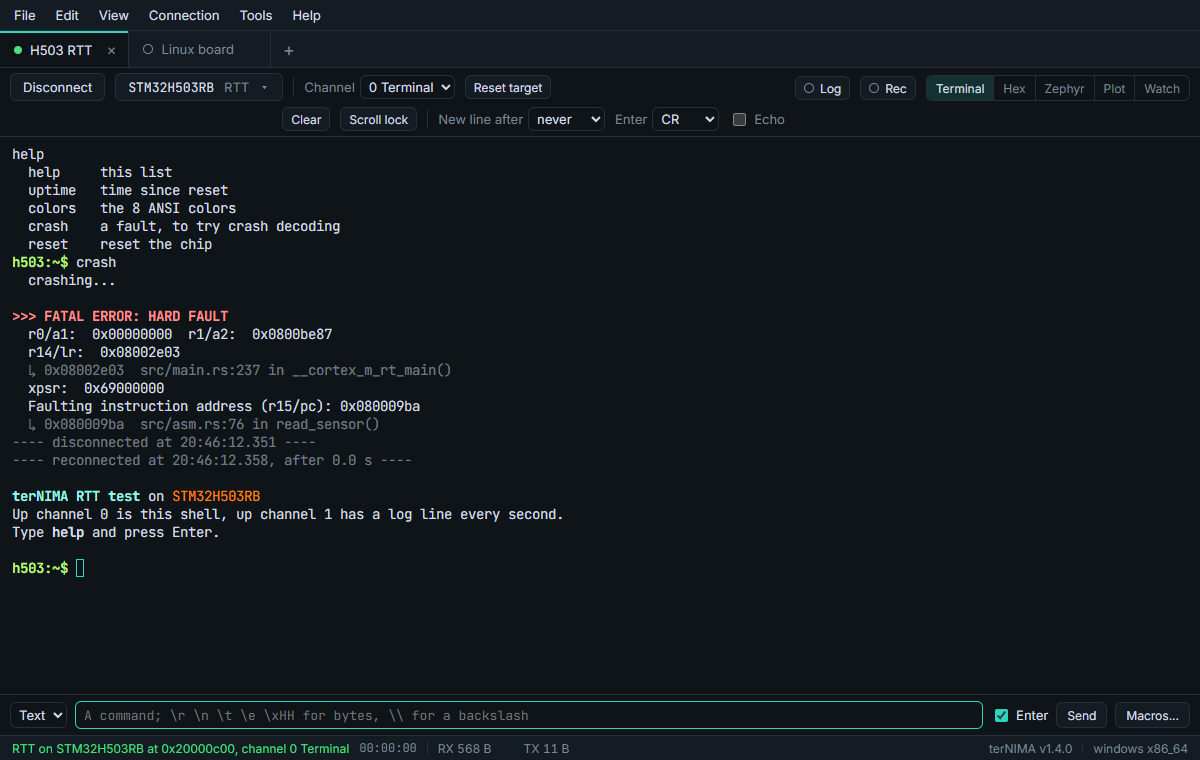
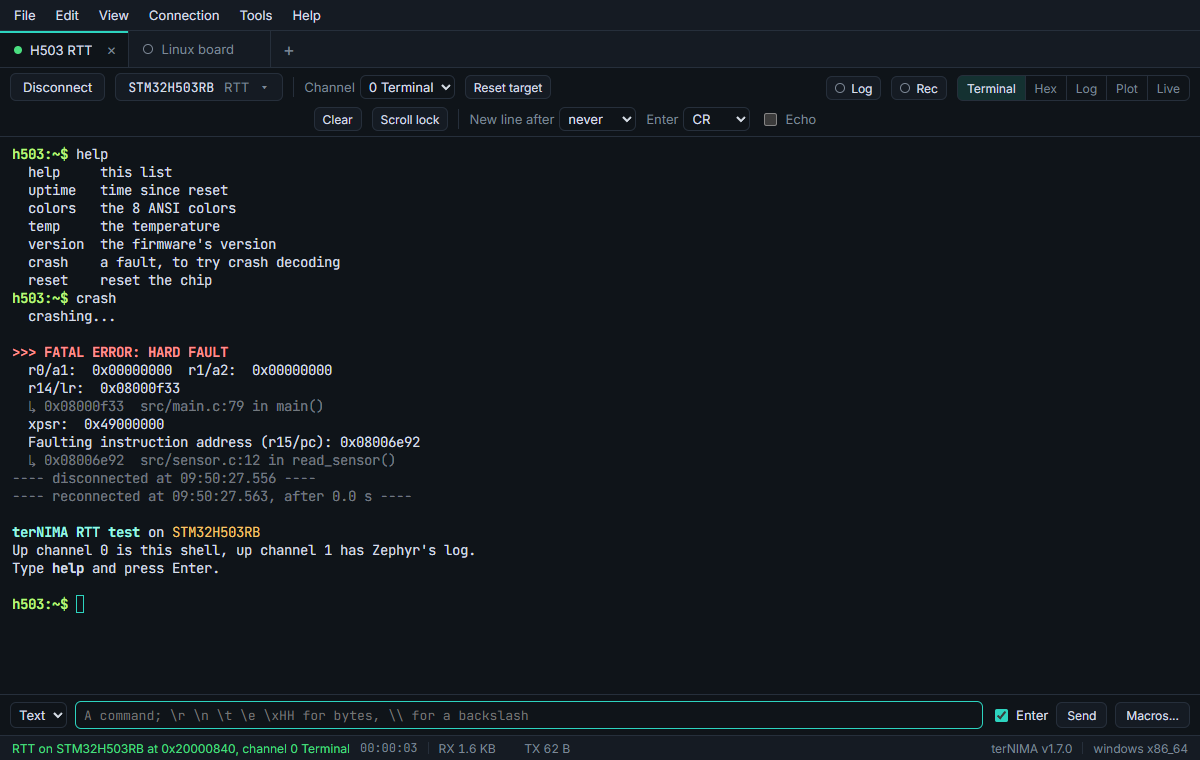
terNIMA's pictures taken again on 1.7.0, with the Live and Log views
The 25 older pictures showed the views as Watch and Zephyr, and some as
Lines. Taken again on terNIMA 1.7.0 with a demo firmware on the
NUCLEO-H503RB: an RTT shell, sensors to watch, Zephyr's log on RTT channel
1, a crash to decode and a Modbus RTU slave on its virtual COM port; the
plots from two small feeders, and htop over SSH. The descriptions follow
what the new pictures show.

diff --git a/ternima/index.html b/ternima/index.html
@@ -89,16 +89,16 @@
       <figure class="shot" id="shots" aria-roledescription="carousel" aria-label="terNIMA, feature by feature">
         <div class="slides">
           <img class="slide on" src="/assets/ternima-rtos.png" width="1200" height="760" loading="lazy" data-caption="RTOS tasks, and every task switch and interrupt on a timeline" alt="terNIMA&#x27;s Live view on an STM32H503RB running Zephyr: a timeline with a lane for each thread, the SysTick and TIM7 interrupts under them and two variables over the same time, 24.6 ms across, and under it the threads, each with its state, priority, stack and share of the CPU">
-          <img class="slide" src="/assets/ternima-logs.png" width="1200" height="760" loading="lazy" data-caption="Zephyr logs, by level and module, with highlights" alt="terNIMA's Lines view: Zephyr log lines, each with its time, level and module, the warnings and errors highlighted, and a count of each level above them">
+          <img class="slide" src="/assets/ternima-logs.png" width="1200" height="760" loading="lazy" data-caption="Zephyr logs, by level and module, with highlights" alt="terNIMA's Log view: Zephyr log lines from the board over RTT, each with its time, level and module, the warnings and errors highlighted, and a count of each level above them">
           <img class="slide" src="/assets/ternima-crash.png" width="1200" height="760" loading="lazy" data-caption="A real HardFault, with the function, file and line under each address" alt="An RTT tab on an STM32H503RB after a HardFault: under the lines with the LR and the PC, the function, file and line of each address">
           <img class="slide" src="/assets/ternima-ssh.png" width="1200" height="760" loading="lazy" data-caption="SSH in a real terminal: htop on a Linux machine" alt="An SSH tab with htop running in it, with its colors, its bars and its F key menu">
           <img class="slide" src="/assets/ternima-rtt.png" width="1200" height="760" loading="lazy" data-caption="RTT through an ST-LINK, with no vendor software" alt="An RTT tab on an STM32H503RB through an ST-LINK: the firmware's shell, with help, colors and uptime typed into it">
           <img class="slide" src="/assets/ternima-watch.png" width="1200" height="760" loading="lazy" data-caption="Live variables beside the RTT shell, read as the chip runs" alt="An RTT tab on an STM32H503RB: the firmware's shell at the left, and at the right its variables, a temperature, a sine, a sample count and the uptime, read live through the probe">
           <img class="slide" src="/assets/ternima-sequences.png" width="1200" height="760" loading="lazy" data-caption="Macros, and sequences of them sent again and again" alt="The Macros dialog: three macros, Reboot, Version and Temperature, and a sequence, Soak test, that sends Temperature then Version every 2 seconds until it is stopped, with their buttons under the terminal">
           <img class="slide" src="/assets/ternima-plot.png" width="1200" height="760" loading="lazy" data-caption="A live plot of the numbers in the lines, with stats" alt="The Plot view: temperature, humidity, a sine and RSSI read from text lines and drawn over the last 10 seconds, with the last, min, max, mean and deviation of each">
-          <img class="slide" src="/assets/ternima-axis.png" width="1200" height="760" loading="lazy" data-caption="A series far from the others, on a right axis of its own" alt="The Plot view: humidity and temperature on the left axis, from 20 to 45, and a sine on a right axis of its own, from -1 to 1, over the same 10 seconds; R by a series in the table puts it on the right">
+          <img class="slide" src="/assets/ternima-axis.png" width="1200" height="760" loading="lazy" data-caption="A series far from the others, on a right axis of its own" alt="The Plot view: humidity and temperature on the left axis, from 20 to 60, and a sine on a right axis of its own, from -1 to 1, over the same 10 seconds; R by a series in the table puts it on the right">
           <img class="slide" src="/assets/ternima-fft.png" width="1200" height="760" loading="lazy" data-caption="FFT, with its peak; XY, histogram and a trigger too" alt="The Plot view's FFT: a signal's spectrum in dB, peaks at 50 and 120 Hz, the peak at 50 Hz named below">
-          <img class="slide" src="/assets/ternima-modbus.png" width="1200" height="760" loading="lazy" data-caption="A Modbus RTU master, polling three units" alt="The Modbus view's Tester as a master on COM6: requests to units 1, 2 and 3 with what each got and how long it took, unit 3 with no answer, and the log of every frame below">
+          <img class="slide" src="/assets/ternima-modbus.png" width="1200" height="760" loading="lazy" data-caption="A Modbus RTU master, polling three units" alt="The Modbus view's Tester as a master on COM6, the board's virtual COM port: requests to units 1, 2 and 3 with what each got and how long it took, unit 3 with no answer, and the log of every frame below">
           <img class="slide" src="/assets/ternima-traffic.png" width="1200" height="760" loading="lazy" data-caption="Every Modbus frame, each response under its request" alt="The Modbus view's Traffic: each request with its response under it and the time it took, and the frame picked below with its bytes colored by part and each register's value">
           <img class="slide" src="/assets/ternima-replay.png" width="1200" height="760" loading="lazy" data-caption="A recording played back, with its timing" alt="A recording played back at its own speed, with Pause, Restart, the speed and the position, and its numbers drawn as they come">
         </div>

diff --git a/ternima/help/index.html b/ternima/help/index.html
@@ -246,7 +246,7 @@
         <h2>Crash decoding</h2>
 
 <p>When firmware crashes, it prints addresses. With the firmware's ELF file in the tab, terNIMA writes the function, the file and the line under each address that is in the code:</p>
-<figure><img src="/assets/help/ternima-crash.png" width="1200" height="760" loading="lazy" decoding="async" alt="A HardFault on an STM32H503RB over RTT: under the line with r14/lr, src/main.rs:237 in __cortex_m_rt_main, and under the faulting instruction address, src/asm.rs:76 in read_sensor"><figcaption>A HardFault: the LR and the PC decoded, the other values left alone</figcaption></figure>
+<figure><img src="/assets/help/ternima-crash.png" width="1200" height="760" loading="lazy" decoding="async" alt="A HardFault on an STM32H503RB over RTT: under the line with r14/lr, src/main.c:79 in main, and under the faulting instruction address, src/sensor.c:12 in read_sensor; then the chip starts again"><figcaption>A HardFault: the LR and the PC decoded, the other values left alone</figcaption></figure>
 
 <p>It reads any line with an address written as <code>0x08001234</code>, as in a Zephyr fatal error, a HardFault handler's print or an ESP32 backtrace. On a line that speaks of the PC, the LR, a fault or a backtrace, <code>08001234</code> without the <code>0x</code> counts too. Only addresses inside the ELF file's functions count, so RAM addresses and other numbers stay as they are. A return address, as in the LR, gives the line of the call.</p>
 <ul>
@@ -269,7 +269,7 @@
 </ol>
 <figure><img src="/assets/help/ternima-watch-list.png" width="1200" height="760" loading="lazy" decoding="async" alt="The Live view with its box clicked: the list of the ELF file&#x27;s variables, each with its type and address, over the table of the variables watched"><figcaption>A click on the box lists the ELF file's variables</figcaption></figure>
 
-<figure><img src="/assets/help/ternima-watch.png" width="1200" height="760" loading="lazy" decoding="async" alt="The Live view: four variables of an STM32H503RB, a temperature, a sine, a sample count and the uptime, each with its type, address, value, min and max"><figcaption>Each variable's value, min and max, as the chip runs</figcaption></figure>
+<figure><img src="/assets/help/ternima-watch.png" width="1200" height="760" loading="lazy" decoding="async" alt="The Live view of an STM32H503RB: its four variables, a temperature, a sine, a sample count and the uptime, drawn over time, then Zephyr&#x27;s threads, then the variables again, each with its type, address, value, min and max"><figcaption>Each variable's value, min and max, as the chip runs</figcaption></figure>
 
 <p>The table has each variable's value, min and max; <b>Reset min/max</b> starts them again. <b>Plot them</b> draws them over time, and <b>Beside the terminal</b> shows them at the right of the terminal, the hex view and the Log view, so what the firmware prints and its variables are in view together:</p>
 <figure><img src="/assets/ternima-watch.png" width="1200" height="760" loading="lazy" decoding="async" alt="The firmware&#x27;s RTT shell at the left, and its variables at the right of it, read live"><figcaption>Watch beside the terminal</figcaption></figure>
@@ -353,7 +353,7 @@ CONFIG_TRACING_PM=n</pre></div>
       <section id="settings">
         <h2>Settings and the keyboard</h2>
 
-<figure><img src="/assets/help/ternima-settings.png" width="1200" height="760" loading="lazy" decoding="async" alt="The Settings dialog: theme and text size, the mouse in the terminal, crash decoding, what terNIMA brings back at startup, logging with its folder and format, and the update check"><figcaption>File > Settings</figcaption></figure>
+<figure><img src="/assets/help/ternima-settings.png" width="1200" height="760" loading="lazy" decoding="async" alt="The Settings dialog: theme, menu text size and text size, the mouse in the terminal, crash decoding, what terNIMA brings back at startup, and logging with its folder and format"><figcaption>File > Settings</figcaption></figure>
 
 <p>File &gt; Settings (<kbd>Ctrl+,</kbd>) has the theme, the menu text size for the menus, tabs, buttons and dialogs (13 pixels at first; View &gt; Bigger, Smaller and Normal menu text size change it too), the terminals' text size, what the mouse does in the terminal, crash decoding, what terNIMA brings back when it starts, the log folder and format, and the update check.</p>
 <figure><img src="/assets/help/ternima-palette.png" width="1200" height="760" loading="lazy" decoding="async" alt="The command palette with live typed: the Live view, ticked as the view shown"><figcaption>The command palette finds any command</figcaption></figure>
